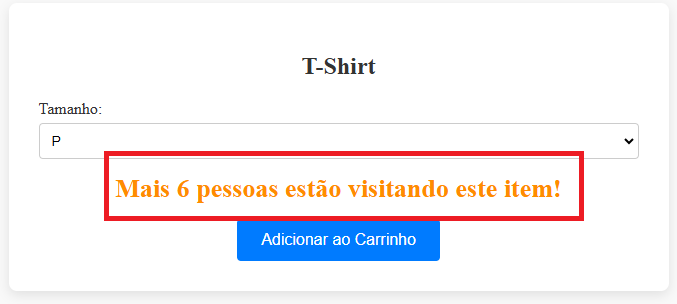
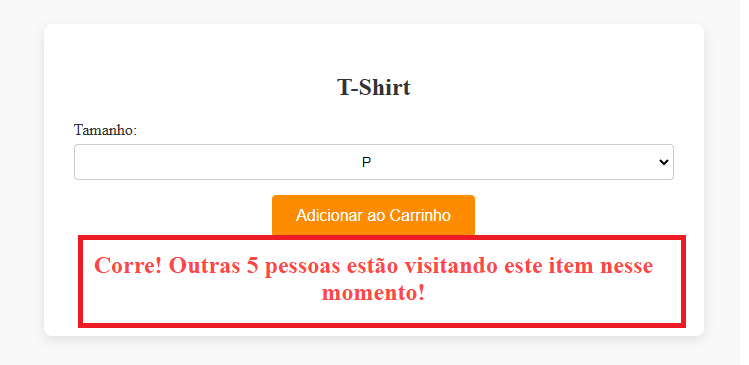
ajustada estilos e regra de traducao para os links de fonte

Changed region(s): [[0.062, 0.3257, 0.9616, 0.9178], [0.4343, 0.1776, 0.5583, 0.2664], [0.062, 0.4441, 0.0931, 0.4737]]

diff --git a/teste.html b/teste.html
@@ -12,9 +12,9 @@
                 <!-- Select para escolher o tamanho -->
                 <div class="size-select">
                     <label for="size">Tamanho:</label>
-                    <select id="size" name="size">
+                    <select id="size" name="size" style="text-align: center;">
                         <option value="small">P</option>
-                        <option value="medium">M</option>
+                        <option value="medium"></option>
                         <option value="large">G</option>
                     </select>
                 </div>
@@ -24,13 +24,14 @@
                     <span>Somente 3 restantes no estoque!</span>
                 </div> -->
 
-                <!-- Mensagem de alta demanda -->
-                <div class="high-demand-message">
-                    <span>Mais 6 pessoas estão visitando este item!</span>
-                </div>
+
                 <!-- Botão de adicionar ao carrinho -->
                 <div class="add-to-cart">
                     <button class="btn btn-primary">Adicionar ao Carrinho</button>
+                </div>
+                <!-- Mensagem de alta demanda -->
+                <div class="high-demand-message">
+                    <span>Corre! Outras 5 pessoas estão visitando este item nesse momento!<span style="display: none;">é</span></span>
                 </div>
             </div>
         </div>

diff --git a/plugin/modal.js b/plugin/modal.js
@@ -40,7 +40,7 @@ function showDarkPatternModal(darkPatternName, textContent, imageSrc, sourceLink
         <span class="close-btn-fake-timer">&times;</span>
         <h2>${darkPatternName}</h2>
         <p style="text-align: justify;">${textContent}</p>
-         <p>Fonte: <a href=${sourceLink} target="_blank"
+         <p>Fonte: <a href="https://translate.google.com/translate?hl=pt&sl=en&u=${sourceLink}" target="_blank"
                         rel="noopener noreferrer">
                        ${sourceTitle}
                     </a></p>

diff --git a/style.css b/style.css
@@ -58,8 +58,8 @@
     font-weight: bold;
   }
   .high-demand-message {
-    font-size: 26px;
-    color: #ff8c00; /* Laranja para destacar a mensagem */
+    font-size: 24px;
+    color:#ff4747; /* Laranja para destacar a mensagem */
     text-align: center;
     font-weight: bold;
   }
@@ -72,7 +72,7 @@
   
   .add-to-cart .btn {
     padding: 12px 24px;
-    background-color: #007bff;
+    background-color: #ff8c00;
     color: white;
     font-size: 16px;
     border: none;
